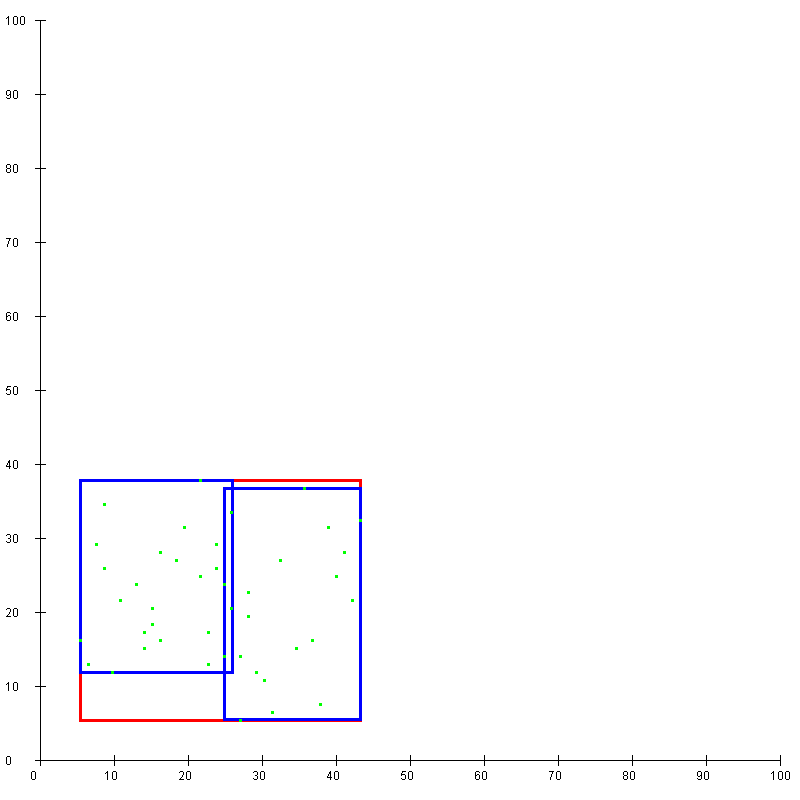
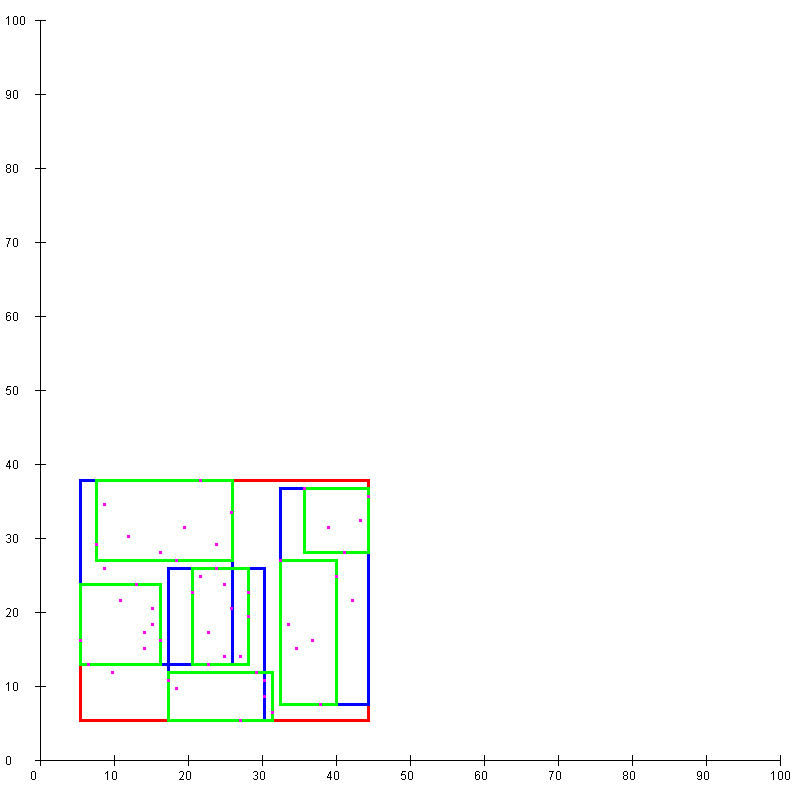
Fixed insert method

Changed region(s): [[0.0938, 0.5938, 0.4688, 0.9062]]

diff --git a/Rstar_Tree/src/RstarTree.java b/Rstar_Tree/src/RstarTree.java
@@ -70,11 +70,14 @@ public class RstarTree {
         } else {
             if (n != root && overflowTreatmentCalled.get(level) == Boolean.FALSE) {
                 overflowTreatmentCalled.set(level, true);
+                // 🔥 ΜΗΝ προσθέτεις εδώ! Το reInsert() θα το κάνει.
                 reInsert(n, mbr, recordID);
             } else {
+                // ⚠ Αν είσαι εδώ, πρόσθεσε πρώτα και μετά split, αλλιώς χάνεται το record!
+                n.addMBR(mbr);
+                n.recordIDs.add(recordID);
                 split(n);
             }
-
         }
     }
 

diff --git a/Rstar_Tree/src/Node.java b/Rstar_Tree/src/Node.java
@@ -9,7 +9,7 @@ public class Node {
     Node parent;
     List<RecordID> recordIDs; // Only if isLeaf = True
 
-    public static final int MAX_RECORD = 8;
+    public static final int MAX_RECORD = 4;
     public static final int MIN_RECORD = (int) Math.ceil(0.4* MAX_RECORD);
 
     public Node(boolean isLeaf) {
